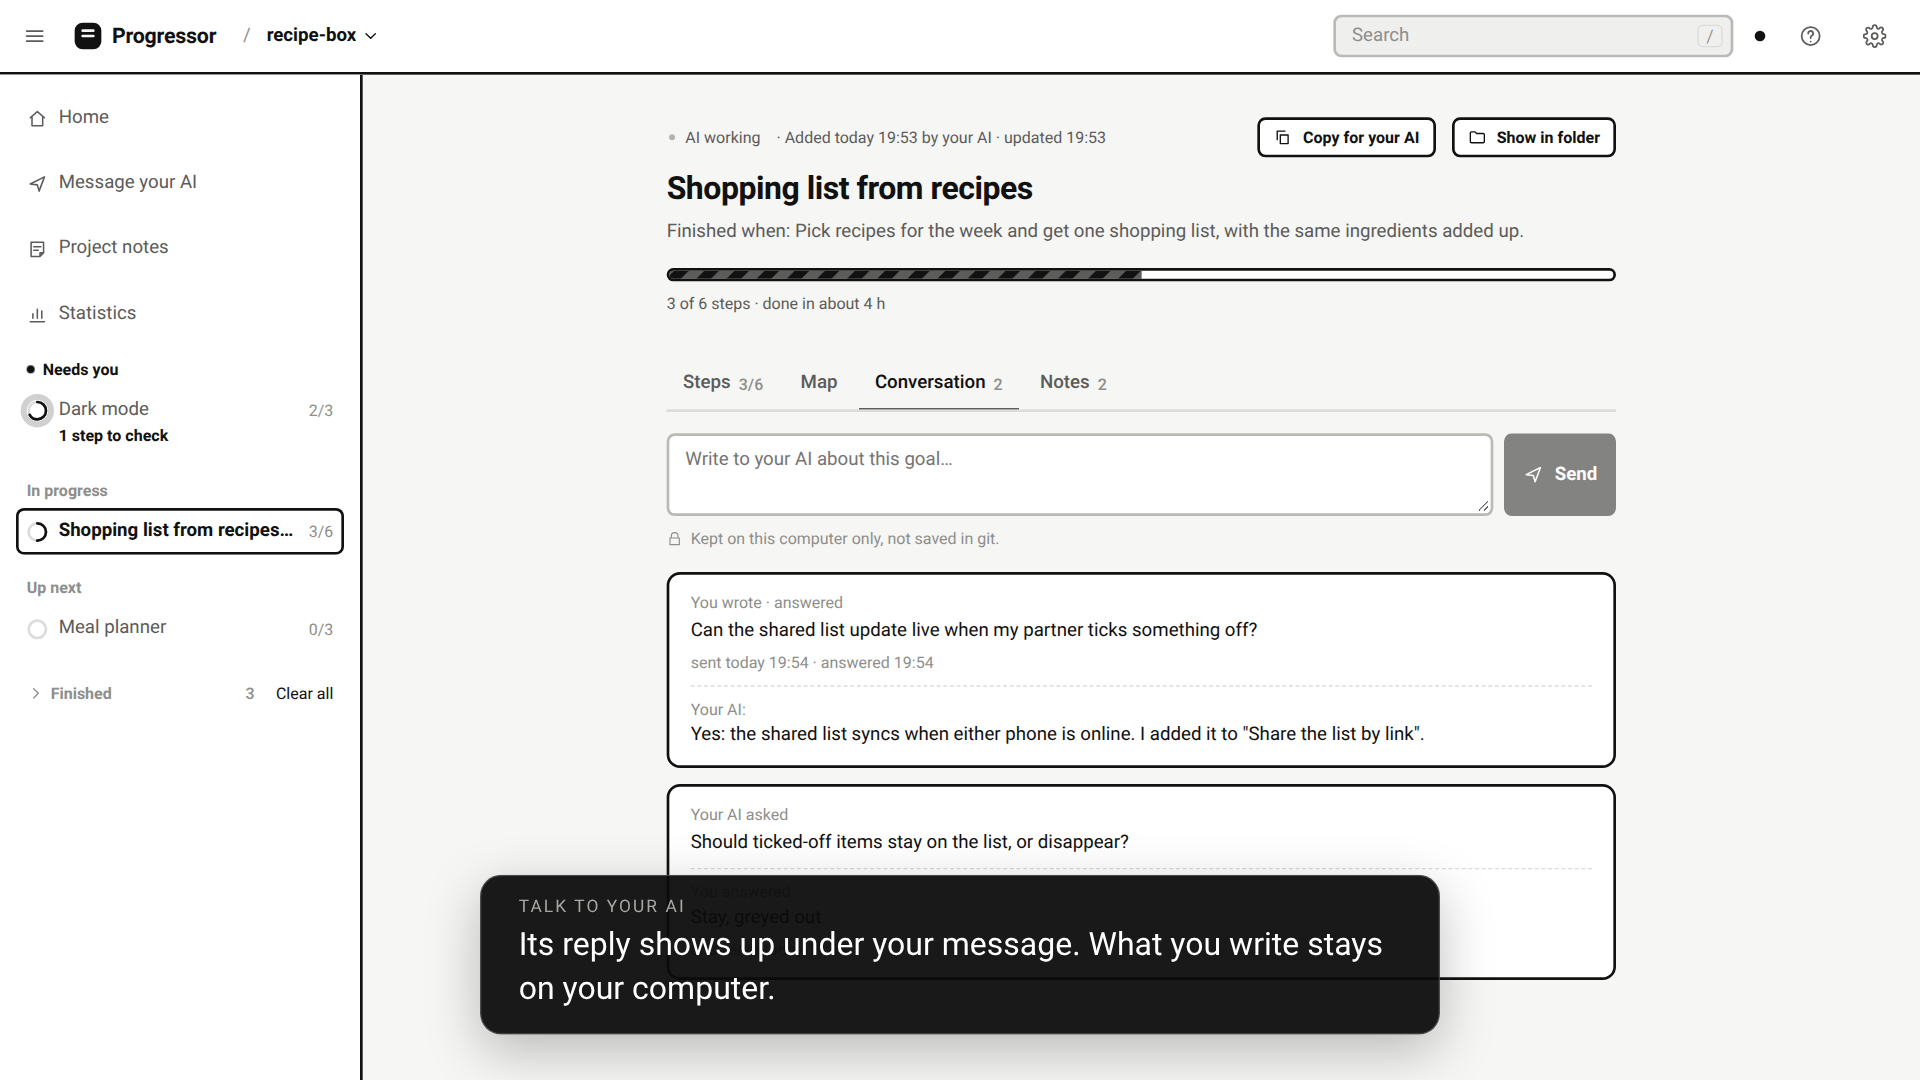
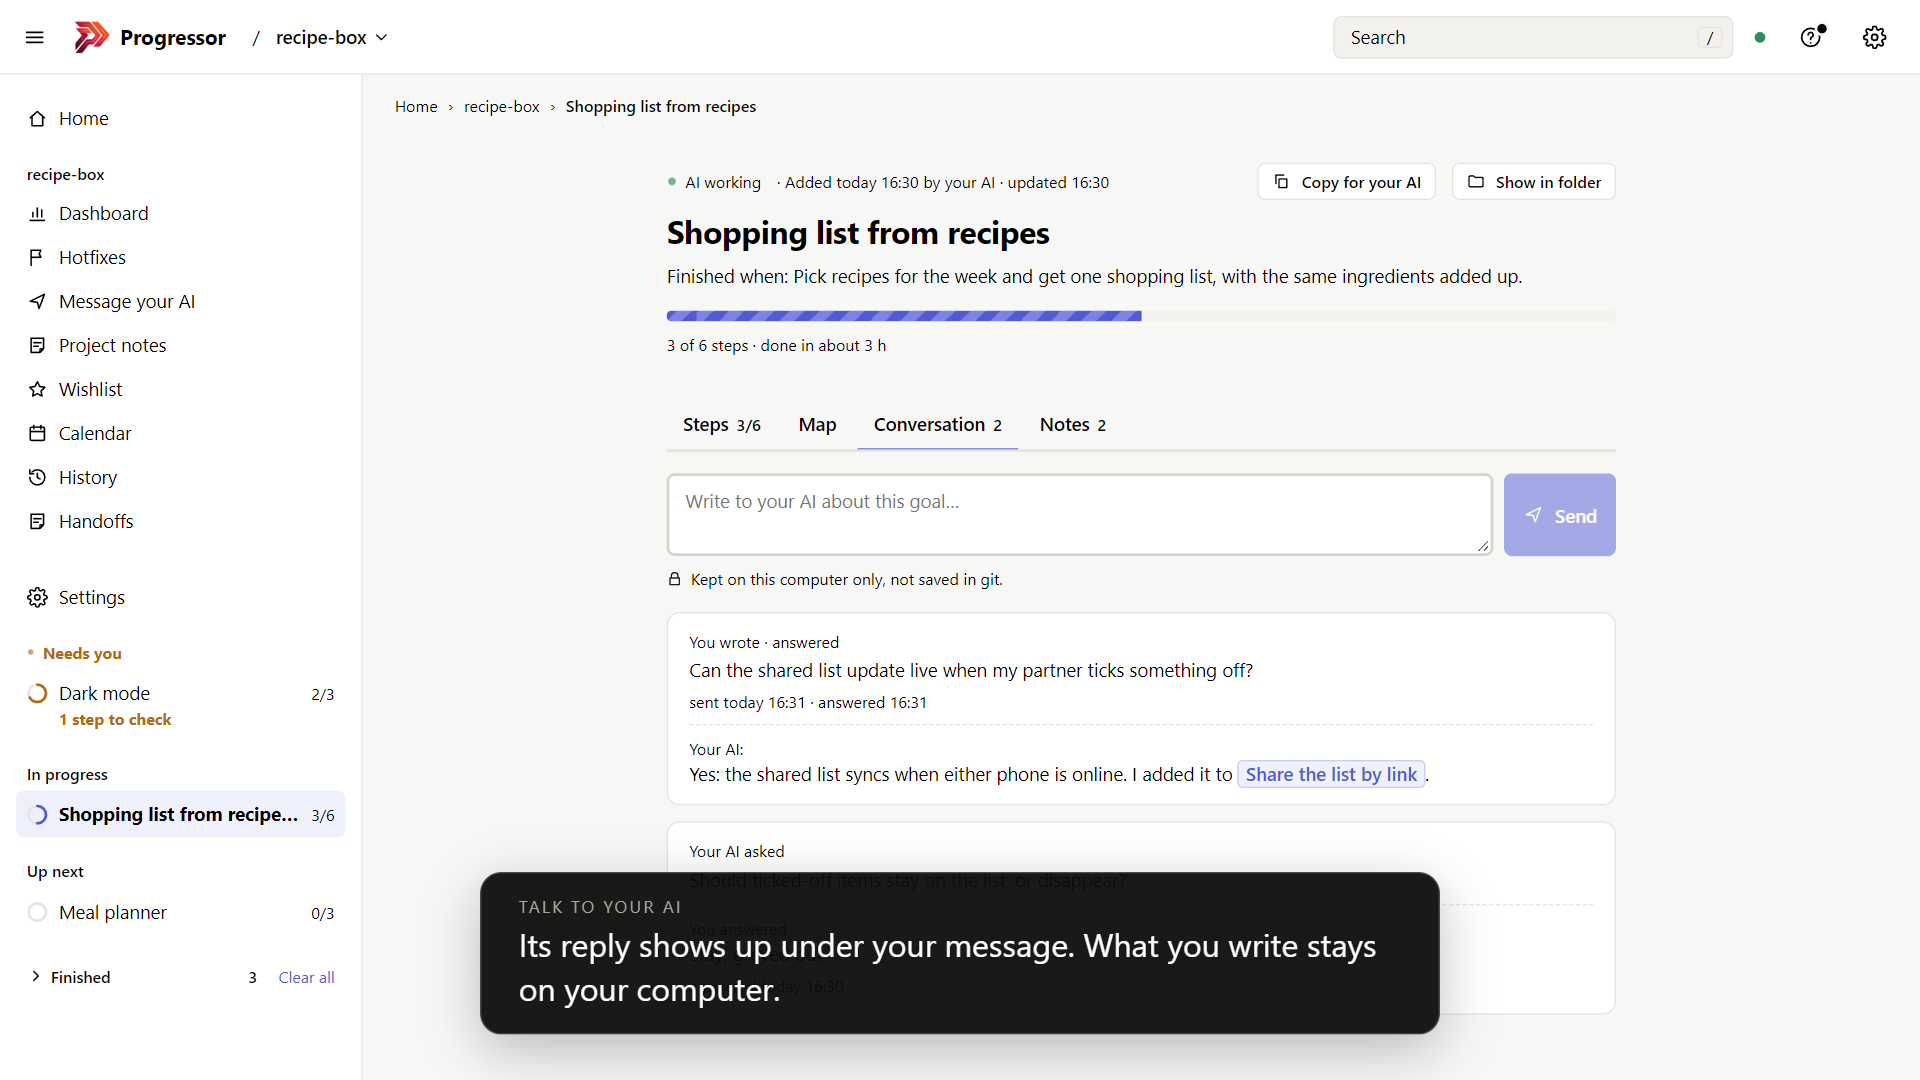
Fresh README pictures and demo video for 1.3.0
The demo script now shows each project's Dashboard (was Statistics), the
Calendar and the Settings page, clicks the sidebar's Home (the breadcrumb has
one too), and marks the tour and What's new as seen so neither covers a shot.
It also runs on Windows (forward slashes for ffmpeg's frame list, and a note to
set TEMP so the sample folders shown don't carry a user name). Re-recorded
from the script's sample projects only; statistics.png is now dashboard.png,
and the README shows calendar.png and settings.png too.

diff --git a/README.md b/README.md
@@ -59,7 +59,7 @@ It works with any app that supports [MCP](https://modelcontextprotocol.io) (the 
   </tr>
   <tr>
     <td width="50%" valign="top">
-      <img src="https://raw.githubusercontent.com/racstan/progressor-mcp/main/docs/media/statistics.png" alt="The Dashboard page: steps done, time worked, goals finished, side trips, and a bar chart of steps finished each day">
+      <img src="https://raw.githubusercontent.com/racstan/progressor-mcp/main/docs/media/dashboard.png" alt="The Dashboard page: steps done, time worked, goals finished, side trips, and a bar chart of steps finished each day">
       <h3>A Dashboard of the numbers</h3>
       How long steps take against their estimates (and how the estimates are getting better), how often the work drifts, and what got done each day, for each project and for all of them on Home.
     </td>
@@ -79,6 +79,18 @@ It works with any app that supports [MCP](https://modelcontextprotocol.io) (the 
       <img src="https://raw.githubusercontent.com/racstan/progressor-mcp/main/docs/media/vibrant.png" alt="The dashboard in the colourful Vibrant theme">
       <h3>Light, dark or colourful</h3>
       <b>Vibrant</b> by default, with black text, or a calm black-and-white look in light or dark. <a href="https://raw.githubusercontent.com/racstan/progressor-mcp/main/docs/media/dark.png">See dark</a>.
+    </td>
+  </tr>
+  <tr>
+    <td width="50%" valign="top">
+      <img src="https://raw.githubusercontent.com/racstan/progressor-mcp/main/docs/media/calendar.png" alt="The Calendar: steps finished and goals added on each day of the month, and what comes next">
+      <h3>A calendar of the work</h3>
+      What your AI finished each day, releases and handoffs, and ahead of today, the steps planned next and when each goal should be done.
+    </td>
+    <td width="50%" valign="top">
+      <img src="https://raw.githubusercontent.com/racstan/progressor-mcp/main/docs/media/settings.png" alt="The Settings page: a menu of sections on the left, and the theme, pop-ups and phone notifications">
+      <h3>Settings, all optional</h3>
+      The look, pop-ups and phone notifications, and how your AI works, grouped on one page. Your AI runs the plan the same whether you ever open it or not.
     </td>
   </tr>
 </table>
